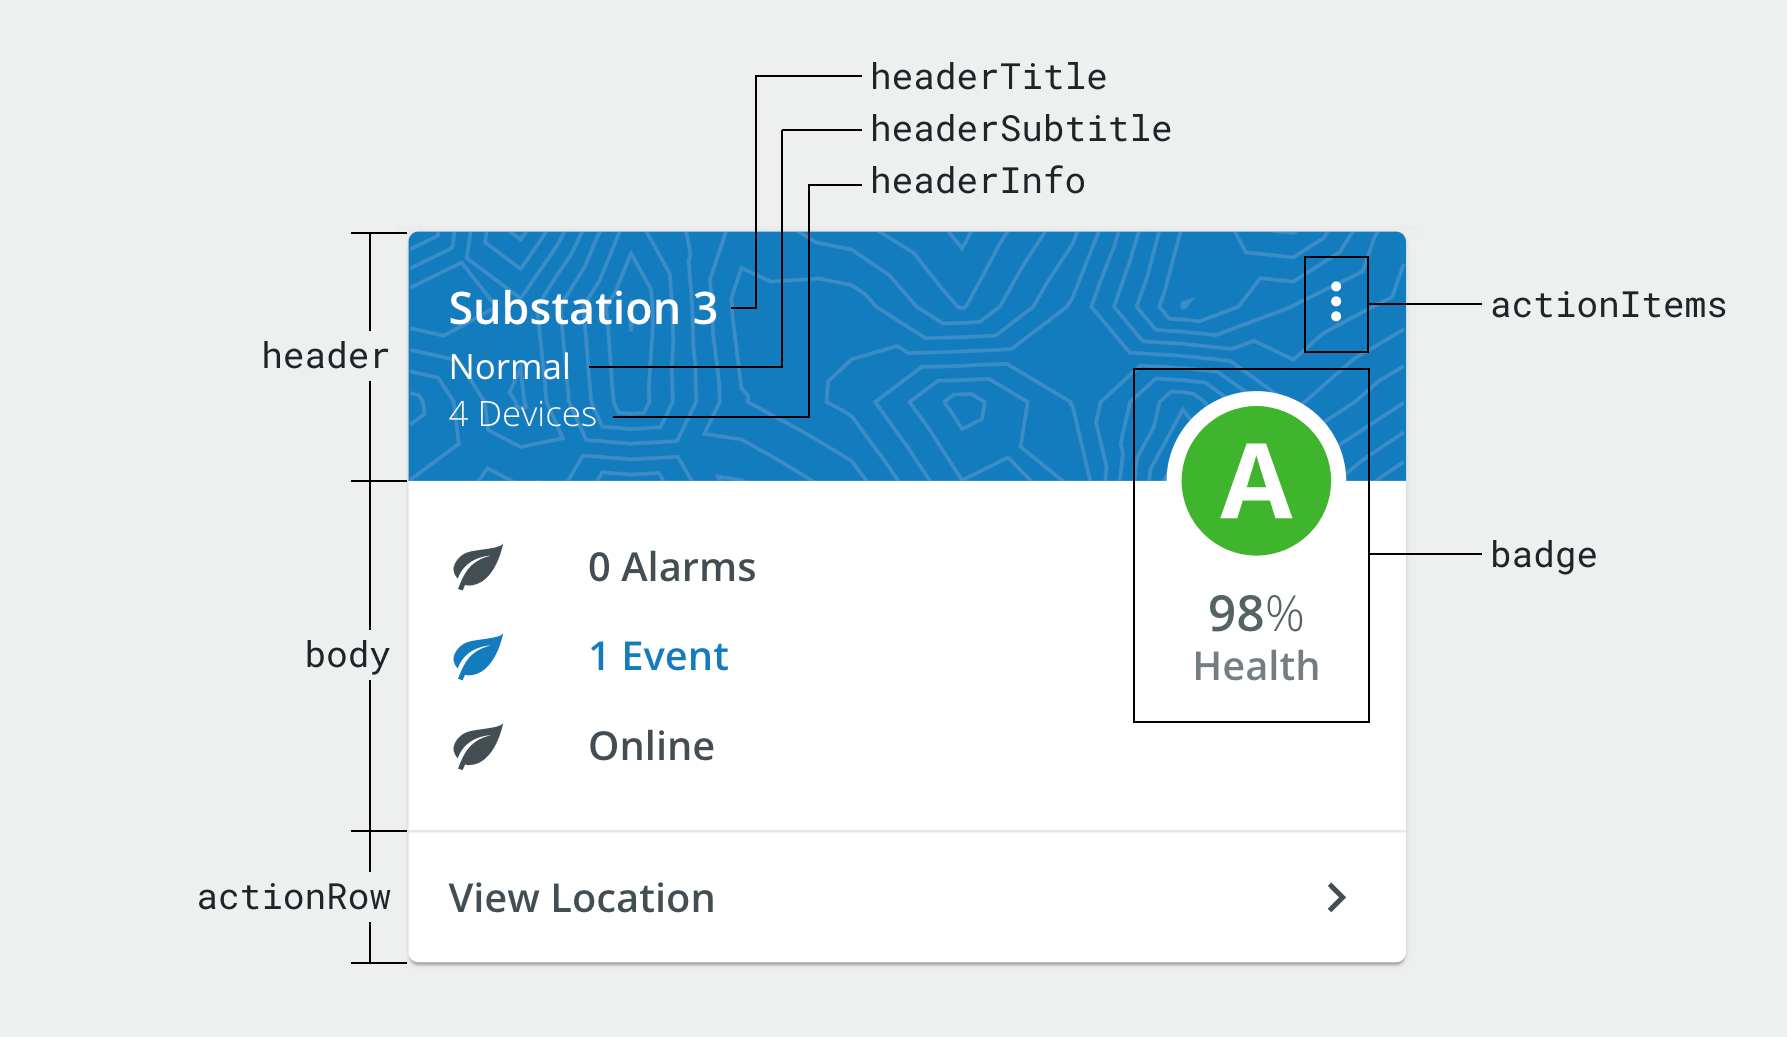
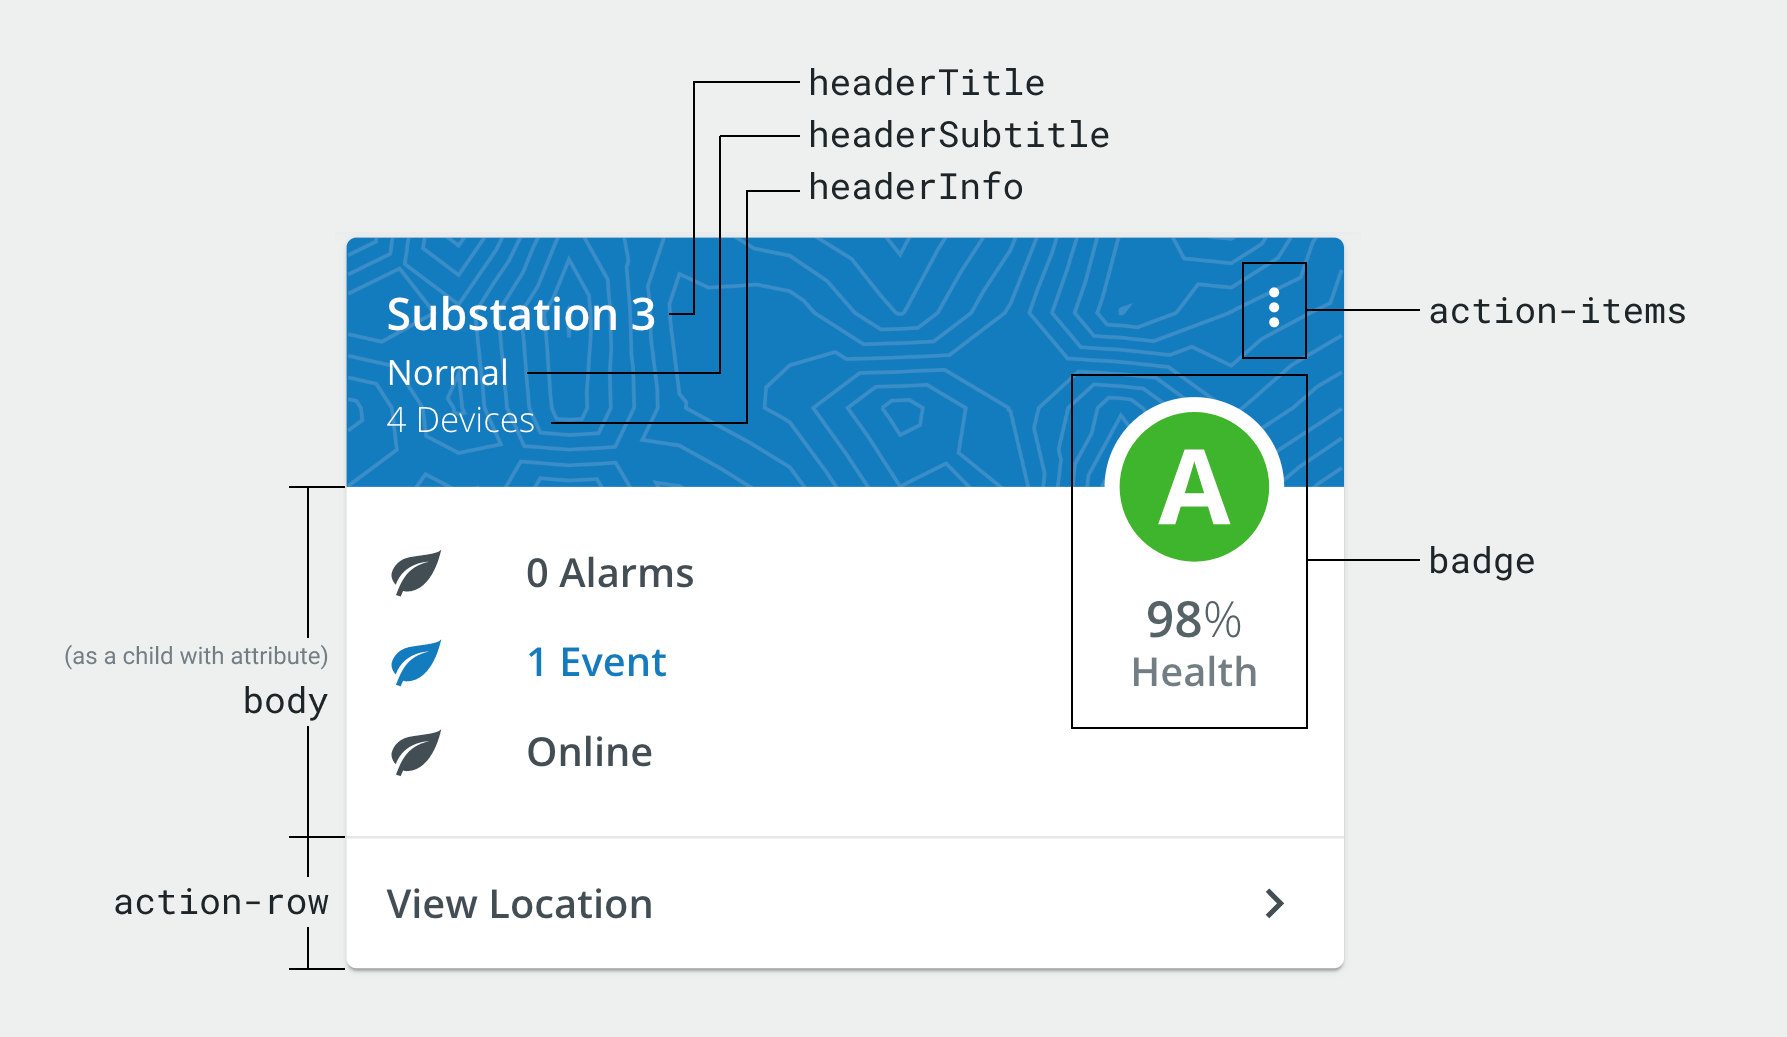
Update anatomy infographics; xl font size -> font size

diff --git a/demos/storybook/stories/channel-value/_module.stories.ts b/demos/storybook/stories/channel-value/_module.stories.ts
@@ -12,7 +12,7 @@ import {
 } from '../../src/constants';
 import { withBasicConfig } from './basic-config.stories';
 import { withIcon } from './with-icon.stories';
-import { withExtraLargeFont } from './with-font-size.stories';
+import { withFontSize } from './with-font-size.stories';
 import { withFullConfig } from './with-full-config.stories';
 import { withUnits } from './with-units.stories';
 
@@ -29,5 +29,5 @@ storiesOf(`${COMPONENT_SECTION_NAME}/Channel Value`, module)
     .add(WITH_MIN_PROPS_STORY_NAME, withBasicConfig)
     .add('with units', withUnits)
     .add('with icon', withIcon)
-    .add('with extra large font size', withExtraLargeFont)
+    .add('with fontSize', withFontSize)
     .add(WITH_FULL_CONFIG_STORY_NAME, withFullConfig);

diff --git a/demos/storybook/stories/channel-value/with-font-size.stories.ts b/demos/storybook/stories/channel-value/with-font-size.stories.ts
@@ -1,6 +1,6 @@
 import { number } from '@storybook/addon-knobs';
 
-export const withExtraLargeFont = (): any => ({
+export const withFontSize = (): any => ({
     template: `
         <pxb-channel-value [value]="'123'" [units]="'hz'" [fontSize]="fontSize">
             <mat-icon [style.color]="iconColor">trending_up</mat-icon>

diff --git a/docs/EmptyState.md b/docs/EmptyState.md
@@ -1,16 +1,20 @@
 # EmptyState
+
 The EmptyState component is an element that can be used as a placeholder when no data is present (such as an empty list, or a placeholder page for future content). This is only used when no data is available, rather than during loading (see [empty states pattern](https://pxblue.github.io/patterns/empty-states)).
 
 <div style="width: 100%; text-align: center">
     <img width="100%" style="max-width: 200px" alt="Empty State component with action button" src="./images/emptyState.png">
 </div>
 
+The EmptyState component can display a particular icon, text, and actions. Icon components are passed as a child element with the `empty-icon` attribute - these will typically be a Material icon, PX Blue icon, or Progress Icon. It will also accept Text/Emoji values inside of a `<span>` element.
 
- The EmptyState component can display a particular icon, text, and actions. Icon components are passed as a child element with the ```empty-icon``` attribute - these will typically be a Material icon, PX Blue icon, or Progress Icon. It will also accept Text/Emoji values inside of a ```<span>``` element.
-
- The EmptyState component can also display additional action elements below the text. These components are passed as a child element with the ```actions``` attribute - these will typically be a button or group of buttons.
+The EmptyState component can also display additional action elements below the text. These components are passed as a child element with the `actions` attribute - these will typically be a button or group of buttons.
 
 ## Usage
+
+<div style="width: 100%; text-align: center">
+    <img width="100%" style="max-width: 600px" alt="Empty State Anatomy" src="./images/emptyStateAnatomy.png">
+</div>
 
 ```typescript
 // app.module.ts
@@ -18,17 +22,17 @@ import { EmptyStateModule } from '@pxblue/angular-components';
 ...
 imports: [
     EmptyStateModule
-  ],
+],
 ```
 
 ```typescript
 // your-component.html
 <pxb-empty-state title="No Devices Found">
-  <mat-icon empty-icon>notifications_none</mat-icon>
-  <button mat-raised-button color="primary" actions>
-    <mat-icon>add_circle</mat-icon>
-    ADD DEVICE
-  </button>
+    <mat-icon empty-icon>notifications_none</mat-icon>
+    <button mat-raised-button color="primary" actions>
+        <mat-icon>add_circle</mat-icon>
+        ADD DEVICE
+    </button>
 </pxb-empty-state>
 ```
 

diff --git a/docs/ScoreCard.md b/docs/ScoreCard.md
@@ -9,8 +9,8 @@ Card component that calls attention to particular values.
 
 ## Usage
 
-<div style="align-items: center; text-align: center; width: 100%; display: flex; justify-content: space-evenly; margin-bottom: 20px">
-    <img width="80%" alt="Score Card with labels on different parts" src="./images/scoreCardAnatomy.png"><br/>
+<div style="width: 100%; text-align: center">
+    <img width="100%" style="max-width: 800px" alt="Empty State Anatomy" src="./images/scoreCardAnatomy.png">
 </div>
 
 ```typescript
@@ -40,7 +40,7 @@ imports: [
         <mat-list-item>Body Content</mat-list-item>
     </mat-list>
 
-    <pxb-hero badge [label]="'Grade'" [value]="'98'" [units]="'/100'" 
+    <pxb-hero badge [label]="'Grade'" [value]="'98'" [units]="'/100'"
         [iconSize]="'large'" [iconBackgroundColor]="'white'">
         <i primary class="pxb-grade_a"></i>
     </pxb-hero>
@@ -53,8 +53,8 @@ imports: [
 
 | Attributes     | Description                                 | Type         | Required | Default |
 | -------------- | ------------------------------------------- | ------------ | -------- | ------- |
-| actionItems    | Icons shown to the right of the header text | `ng-content` | no       |         |
-| actionRow      | Content to render for the footer            | `ng-content` | no       |         |
+| action-items   | Icons shown to the right of the header text | `ng-content` | no       |         |
+| action-row     | Content to render for the footer            | `ng-content` | no       |         |
 | badge          | Content to render in the callout area       | `ng-content` | no       |         |
 | badgeOffset    | Vertical offset for the badge content       | `number`     | no       | 0       |
 | body           | Content to render in the body               | `ng-content` | no       |         |

diff --git a/docs/ChannelValue.md b/docs/ChannelValue.md
@@ -12,6 +12,10 @@ Icons are passed in as a child element of the ChannelValue component.
 
 ## Usage
 
+<div style="width: 100%; text-align: center">
+    <img width="100%" style="max-width: 400px" alt="Channel Value Anatomy" src="./images/channelValueAnatomy.png">
+</div>
+
 ```typescript
 // app.module.ts
 import { ChannelValueModule } from '@pxblue/angular-components';
